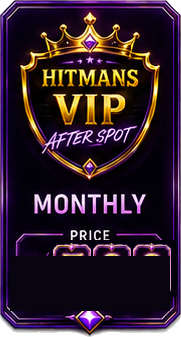
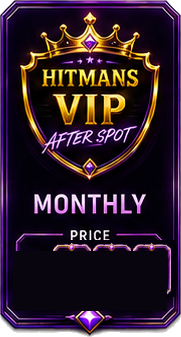
Fit price digits to the slot: fully clear slot + auto-size, no overflow
Fully clears the tier card price slot (no leftover box frames) and sizes the
purple sheet digits by price length so $1850 / $5000 fit inside the card
instead of overflowing.

Claude-Session: https://claude.ai/code/session_01ADwVEMnuAZygKPZ7Pb8UgW

diff --git a/hitmans_vip_membership_app/src/styles.css b/hitmans_vip_membership_app/src/styles.css
@@ -2961,11 +2961,12 @@ button {
 .tier-buy-card.picked { filter: drop-shadow(0 0 11px rgba(255,214,107,.9)); }
 .tier-buy-card.picked .tier-buy-art { transform: scale(1.04); }
 .tier-buy-card > img.tier-buy-art { width: 100%; max-width: 120px; height: auto; transition: transform .15s ease; }
-/* Price sits IN the card's empty PRICE slot — purple modular digits, no box. */
-.tier-price-slot { position: absolute; left: 8%; right: 8%; bottom: 7.5%; height: 15%; display: flex; align-items: center; justify-content: center; }
-.price-digits { display: flex; align-items: flex-end; justify-content: center; gap: 1px; }
-.pd-digit { height: 34px; width: auto; display: block; }
-.pd-cur { height: 30px; margin-right: 1px; }
+/* Price sits IN the card's empty PRICE slot — purple modular digits from the
+   sheet, sized (inline) so the whole price fits without overflowing. */
+.tier-price-slot { position: absolute; left: 6%; right: 6%; bottom: 6.5%; height: 17%; display: flex; align-items: center; justify-content: center; overflow: hidden; }
+.price-digits { display: flex; align-items: center; justify-content: center; gap: 1px; max-width: 100%; }
+.pd-digit { width: auto; display: block; }
+.pd-cur { margin-right: 1px; }
 .tpp-open { display: flex; flex-direction: column; align-items: center; color: #c98bff; font-weight: 900; font-size: 15px; letter-spacing: .06em; line-height: 1; text-shadow: 0 0 10px rgba(180,100,255,.6); }
 .tpp-open small { color: #a98fd0; font-size: 6.5px; font-weight: 700; letter-spacing: .03em; margin-top: 3px; text-transform: uppercase; }
 .tier-buy-price { color: #fff; font-size: 20px; font-weight: 800; }

diff --git a/hitmans_vip_membership_app/src/main.jsx b/hitmans_vip_membership_app/src/main.jsx
@@ -1446,11 +1446,15 @@ const TIER_SRC = Object.fromEntries(ui.tiers.map((t) => [t.name, t.src]));
 // Price rendered from the gold digit strips (ui.digits[d] is the art for digit d)
 // so every price uses the same clean, professional numerals.
 function PriceDigits({ value }) {
+  const digits = String(Math.round(value)).split('');
+  const n = digits.length + 1;                 // + the $ box
+  const h = Math.min(38, Math.floor(98 / (0.62 * n)));   // scale so all boxes fit the slot
+  const st = { height: `${h}px` };
   return (
     <span className="price-digits">
-      <img className="pd-digit pd-cur" src={ui.pdollar} alt="$" />
-      {String(Math.round(value)).split('').map((c, i) => (
-        <img key={i} className="pd-digit" src={ui.pdigits[+c]} alt={c} />
+      <img className="pd-digit pd-cur" style={st} src={ui.pdollar} alt="$" />
+      {digits.map((c, i) => (
+        <img key={i} className="pd-digit" style={st} src={ui.pdigits[+c]} alt={c} />
       ))}
     </span>
   );
